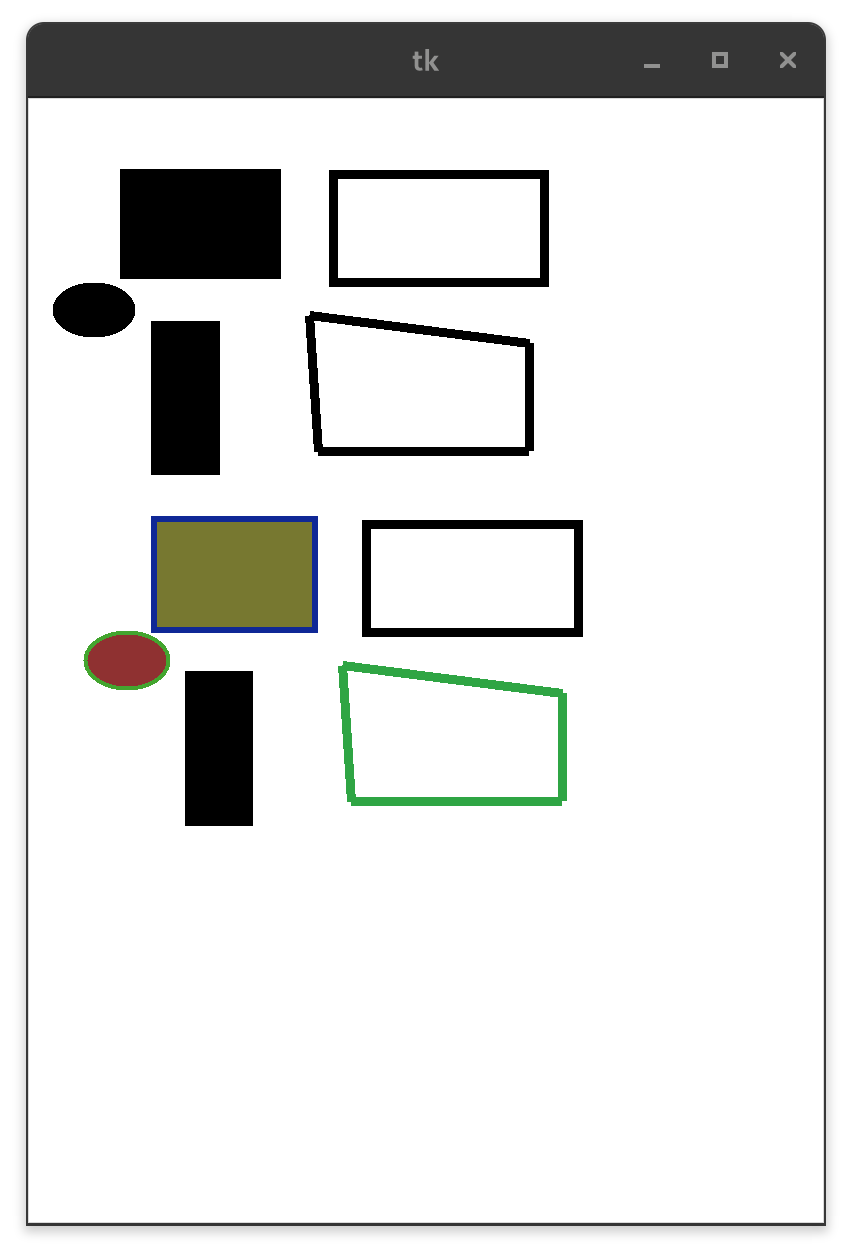
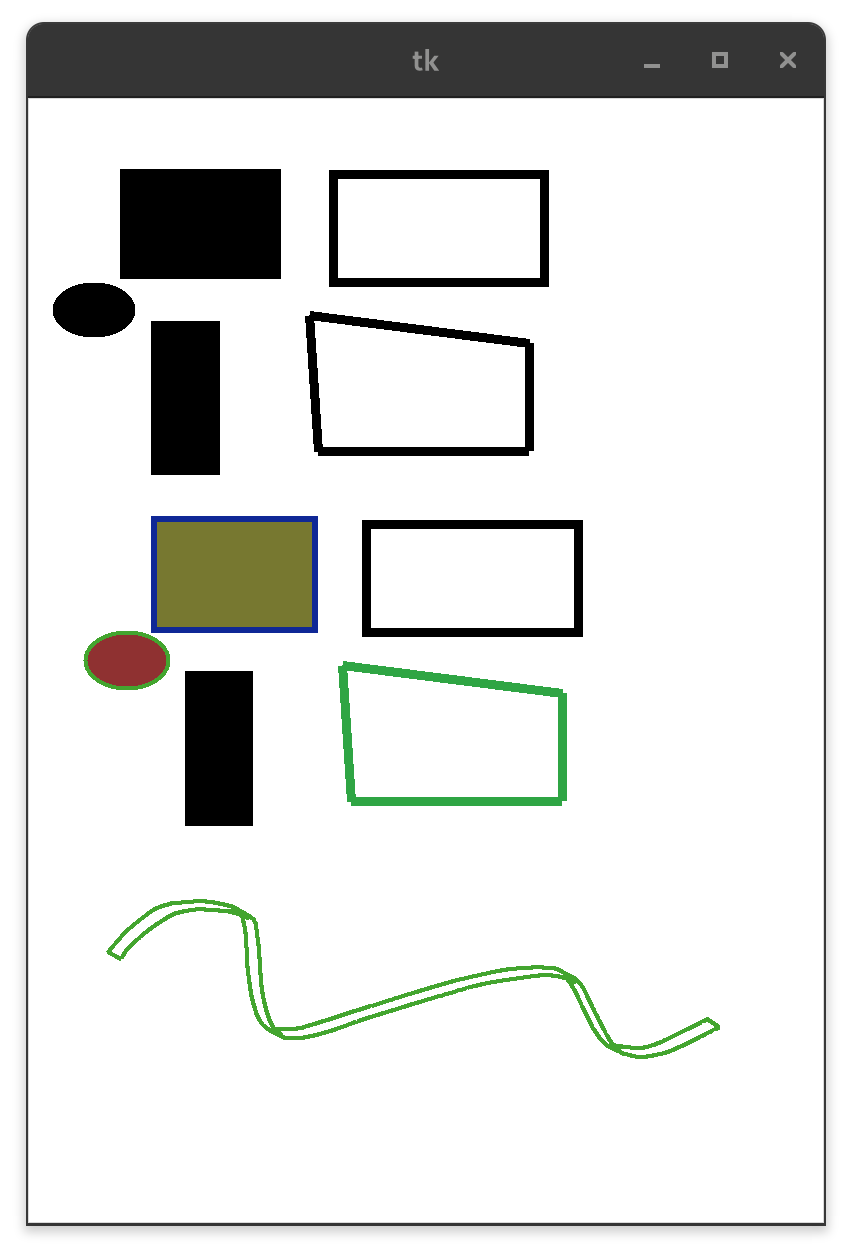
Added cubic bezier for pytk generator

Changed region(s): [[0.4272, 0.7446, 0.8545, 0.8687], [0.1526, 0.7136, 0.4272, 0.8377], [0.1221, 0.7446, 0.1526, 0.7757]]

diff --git a/PyTkConverter.py b/PyTkConverter.py
@@ -4,7 +4,8 @@ from ConverterABC import ConverterABC
 class PyTkConverter(ConverterABC):
     def convert(self, file) -> str:
         svg = SVG.parse(file)
-        data = self.__prepareStartString(svg.width, svg.height)
+        shouldAddBezierFunction = False
+        data = ""
         for element in list(svg.elements()):
             if type(element) is Rect:
                 fill = element.fill if element.fill != None else ""
@@ -30,17 +31,39 @@ class PyTkConverter(ConverterABC):
                     elif type(segment) is Close:
                         data += f"canvas.create_line({segment.start.x}, {segment.start.y}, {segment.end.x}, {segment.end.y}, width={element.stroke_width}, fill=\"{stroke}\")\n"
                     elif type(segment) is CubicBezier:
-                        pass
+                        shouldAddBezierFunction = True
+                        data += f"draw_cubic_bezier(canvas, ({segment.start}), ({segment.end}), ({segment.control1}), ({segment.control1}), {element.stroke_width}, \"{stroke}\")\n"
+        
         data += self.__prepareEndString()
+        if shouldAddBezierFunction:
+            data = self.__prepareImportString() + self.__addBezierFunction() + self.__prepareStartString(svg.width, svg.height) + data
+        else:
+            data = self.__prepareImportString() + self.__prepareStartString() + data
         return data
 
+    def __prepareImportString(self) -> str:
+        return "import tkinter\n"
+
     def __prepareStartString(self, width, height) -> str:
-        return f"""import tkinter
-top = tkinter.Tk()
+        return f"""top = tkinter.Tk()
 canvas = tkinter.Canvas(top, bg="white", height={height}, width={width})
 """
-    
+
     def __prepareEndString(self) -> str:
         return f"""canvas.pack()
 top.mainloop()
+"""
+    def __addBezierFunction(self) -> str:
+        return """
+# Cubic Bézier function implementation
+# This function was generated by OpenAI's ChatGPT model
+def draw_cubic_bezier(canvas, start, end, control1, control2, width, color):
+    points = []
+    for t in range(0, 101):
+        t = t / 100.0
+        x = (1 - t) ** 3 * start[0] + 3 * (1 - t) ** 2 * t * control1[0] + 3 * (1 - t) * t ** 2 * control2[0] + t ** 3 * end[0]
+        y = (1 - t) ** 3 * start[1] + 3 * (1 - t) ** 2 * t * control1[1] + 3 * (1 - t) * t ** 2 * control2[1] + t ** 3 * end[1]
+        points.append((x, y))
+    canvas.create_line(points, width=width, fill=color)
+
 """
